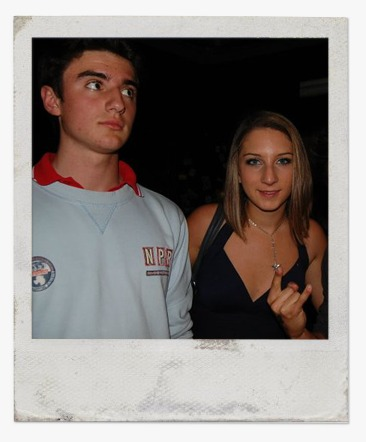
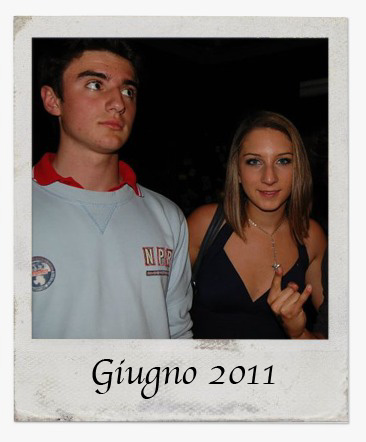
polaroids

Changed region(s): [[0.2404, 0.7941, 0.541, 0.9118], [0.571, 0.8235, 0.7514, 0.8824]]

diff --git a/README.md b/README.md
@@ -25,8 +25,7 @@ _See [wedding.rampatra.com](http://wedding.rampatra.com/) for a demo. Use invite
 customize each of them according to your needs.
 
 # TO-DO
-* Logo M&D
-* testo regali
+* testo intro + downloadable links
+* testo polaroid 
+* controllare testi in inglese
 * MD5 codice di invito
-* photo ricordi
-* togli spazio tra due foto marti porti
